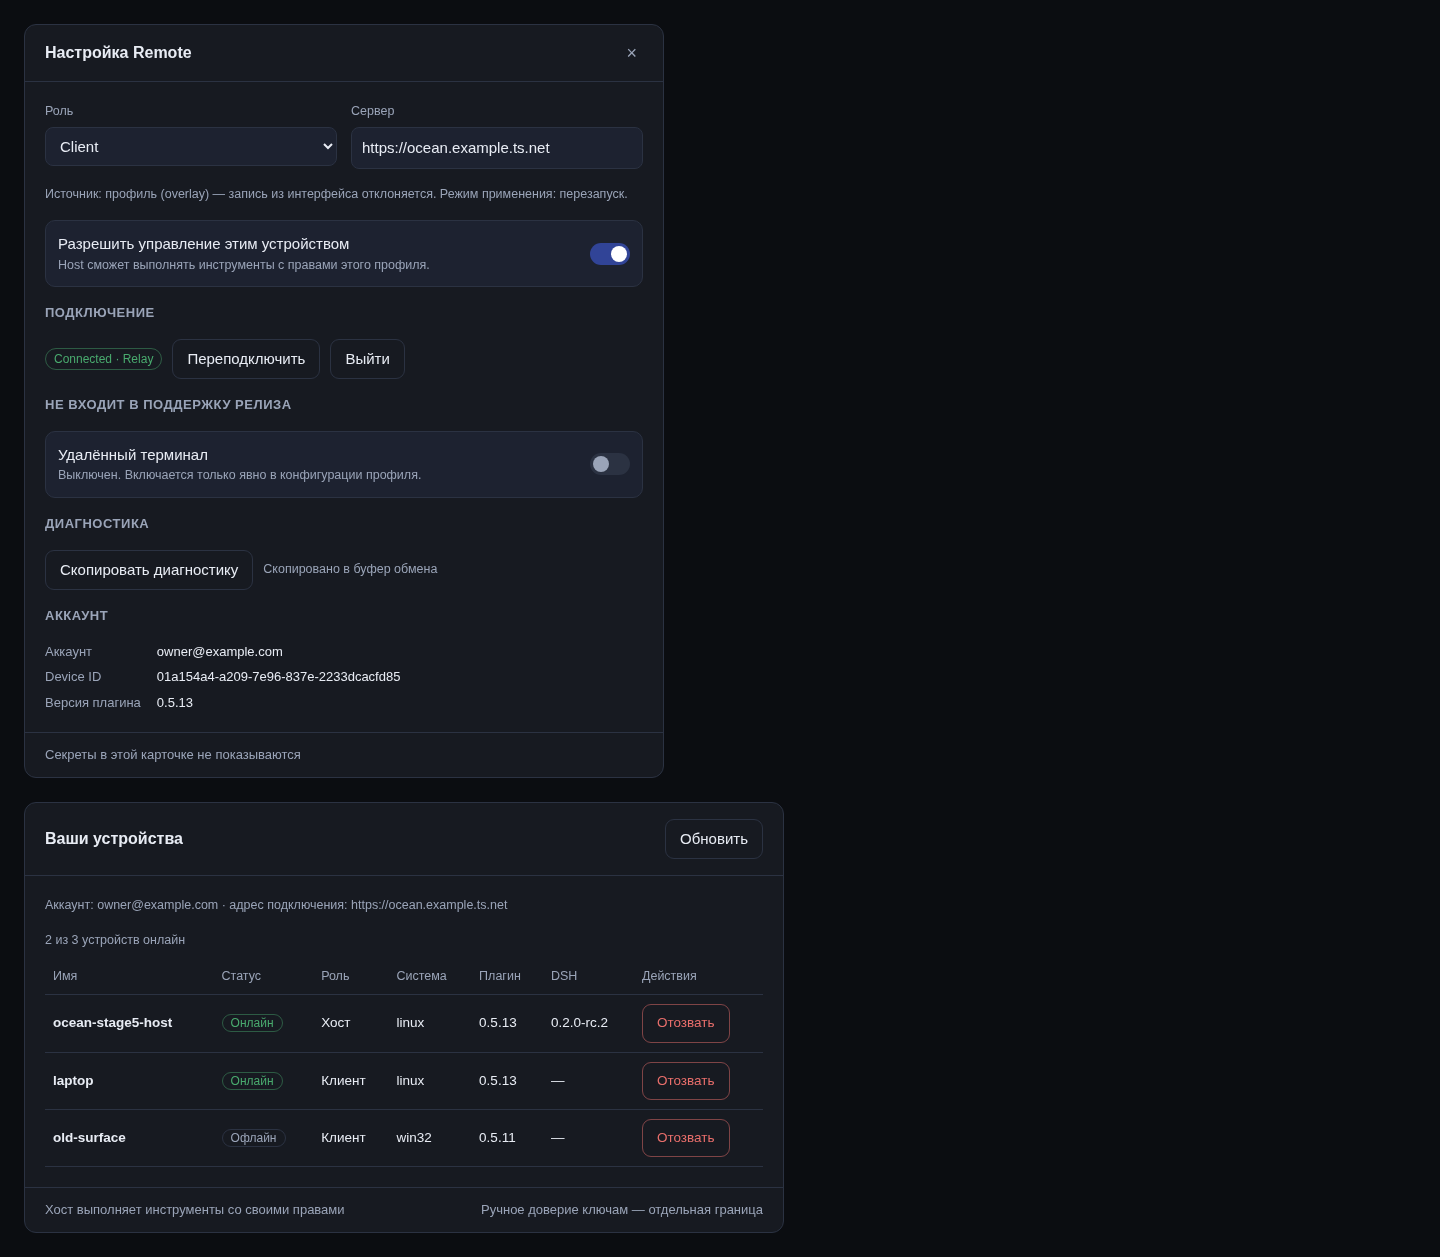
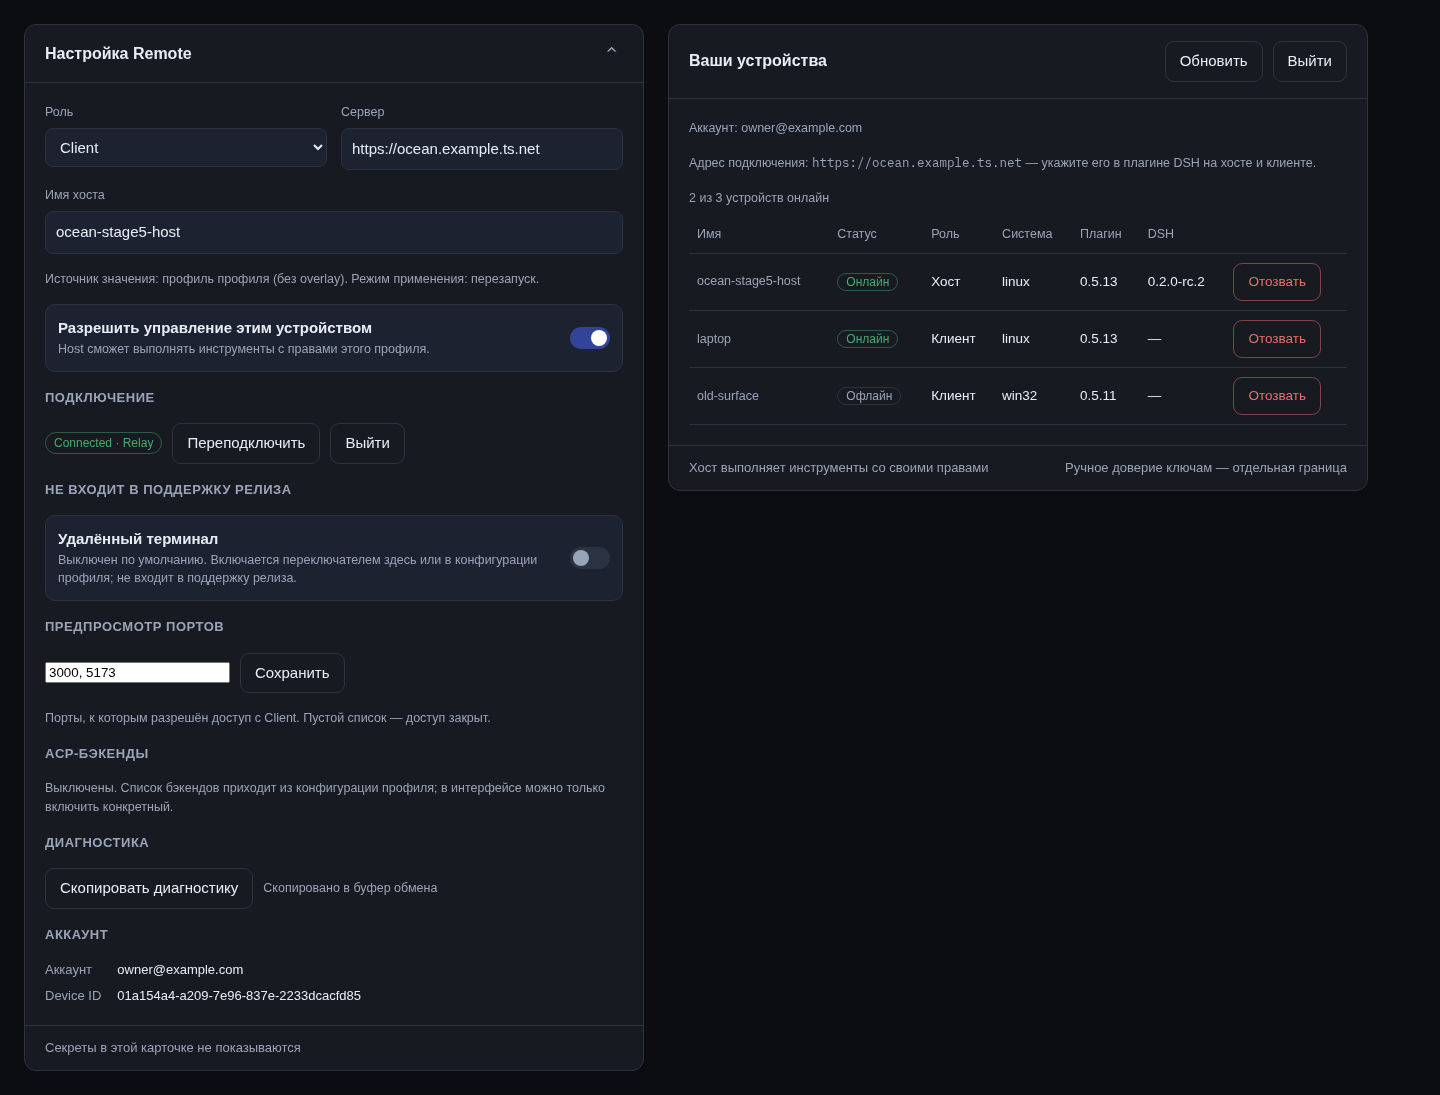
docs: make the settings and ocean mockups accurate

diff --git a/docs/design/fork/mockups/settings-and-ocean.html b/docs/design/fork/mockups/settings-and-ocean.html
@@ -12,13 +12,16 @@
     --radius:12px; --gap:16px;
   }
   *{box-sizing:border-box}
+  .visually-hidden{position:absolute;width:1px;height:1px;overflow:hidden;clip-path:inset(50%);white-space:nowrap}
+  .host__name{font-weight:600}
   body{margin:0;background:var(--bg);color:var(--ink);font:15px/1.5 -apple-system,"Segoe UI",Roboto,sans-serif}
   .stage{display:flex;gap:24px;padding:24px;align-items:flex-start;flex-wrap:wrap}
-  .card{background:var(--surface);border:1px solid var(--border);border-radius:var(--radius);overflow:hidden;width:640px}
-  .card--wide{width:760px}
+  .card{background:var(--surface);border:1px solid var(--border);border-radius:var(--radius);overflow:hidden;width:620px}
+  .card--wide{width:700px}
   .card__head{display:flex;align-items:center;justify-content:space-between;padding:16px 20px;border-bottom:1px solid var(--border);gap:12px}
   .card__title{margin:0;font-weight:600;font-size:16px}
   .card__close{background:transparent;border:0;color:var(--muted);font-size:18px;cursor:pointer;border-radius:6px}
+  .card__close:focus-visible{outline:2px solid var(--accent);outline-offset:2px}
   .card__body{padding:20px;display:flex;flex-direction:column;gap:var(--gap)}
   .section-title{font-size:13px;letter-spacing:.04em;text-transform:uppercase;color:var(--muted);margin:0}
   .field{display:flex;flex-direction:column;gap:6px;margin:0}
@@ -41,6 +44,7 @@
   .notice strong{display:block;color:var(--ink);margin-bottom:2px}
   .meta{display:grid;grid-template-columns:max-content 1fr;gap:6px 16px;font-size:13px;color:var(--muted);margin:0}
   .meta dt{color:var(--muted)} .meta dd{margin:0;color:var(--ink);overflow-wrap:anywhere}
+  .table-scroll{overflow-x:auto;max-width:100%}
   table{width:100%;border-collapse:collapse;font-size:13.5px}
   caption{text-align:left;color:var(--muted);font-size:12.5px;padding-bottom:8px}
   th,td{text-align:left;padding:9px 8px;border-bottom:1px solid var(--border);white-space:nowrap}
@@ -49,15 +53,12 @@
   .pill{font-size:12px;padding:1px 8px;border-radius:999px;border:1px solid var(--border);color:var(--muted)}
   .pill--ok{color:var(--success);border-color:color-mix(in srgb,var(--success) 45%,transparent)}
   .pill--off{color:var(--muted)}
-  .empty{border:1px dashed var(--border);border-radius:10px;padding:18px;text-align:center;color:var(--muted);font-size:13px}
-  .error{border:1px solid color-mix(in srgb,var(--danger) 45%,transparent);border-radius:10px;padding:10px 12px;font-size:13px;color:var(--danger)}
   .footer{display:flex;justify-content:space-between;gap:12px;padding:12px 20px;border-top:1px solid var(--border);font-size:13px;color:var(--muted);flex-wrap:wrap}
   @media (max-width:700px){
     .stage{padding:12px}
     .card,.card--wide{width:100%}
     .card__body{padding:14px;gap:12px}
     .grid2{grid-template-columns:1fr}
-    .table-scroll{overflow-x:auto}
     th,td{white-space:normal}
   }
 </style>
@@ -67,14 +68,15 @@
   <section class="card" aria-labelledby="settings-title">
     <header class="card__head">
       <h2 class="card__title" id="settings-title">Настройка Remote</h2>
-      <button class="card__close" aria-label="Закрыть настройку Remote">×</button>
+      <button class="card__close" aria-expanded="true" aria-label="Свернуть настройку Remote">⌃</button>
     </header>
     <div class="card__body">
       <div class="grid2">
         <p class="field"><label for="role" class="hint">Роль</label><select id="role"><option>Host</option><option selected>Client</option></select></p>
-        <p class="field"><label for="server" class="hint">Сервер</label><input id="server" value="https://ocean.example.ts.net" readonly></p>
+        <p class="field"><label for="server" class="hint">Сервер</label><input id="server" value="https://ocean.example.ts.net"></p>
       </div>
-      <p class="hint">Источник: профиль (overlay) — запись из интерфейса отклоняется. Режим применения: перезапуск.</p>
+      <p class="field"><label for="hostname" class="hint">Имя хоста</label><input id="hostname" value="ocean-stage5-host"></p>
+      <p class="hint">Источник значения: профиль профиля (без overlay). Режим применения: перезапуск.</p>
 
       <div class="switch-row">
         <div>
@@ -93,9 +95,16 @@
 
       <h3 class="section-title">Не входит в поддержку релиза</h3>
       <div class="switch-row">
-        <div><div class="host__name">Удалённый терминал</div><p class="hint">Выключен. Включается только явно в конфигурации профиля.</p></div>
+        <div><div class="host__name">Удалённый терминал</div><p class="hint">Выключен по умолчанию. Включается переключателем здесь или в конфигурации профиля; не входит в поддержку релиза.</p></div>
         <span class="switch" role="switch" aria-checked="false" aria-label="Удалённый терминал"></span>
       </div>
+
+      <h3 class="section-title">Предпросмотр портов</h3>
+      <div class="row"><input id="ports" value="3000, 5173" style="max-width:220px" aria-label="Порты предпросмотра"><button class="btn">Сохранить</button></div>
+      <p class="hint">Порты, к которым разрешён доступ с Client. Пустой список — доступ закрыт.</p>
+
+      <h3 class="section-title">ACP-бэкенды</h3>
+      <p class="hint">Выключены. Список бэкендов приходит из конфигурации профиля; в интерфейсе можно только включить конкретный.</p>
 
       <h3 class="section-title">Диагностика</h3>
       <div class="row">
@@ -107,7 +116,6 @@
       <dl class="meta">
         <dt>Аккаунт</dt><dd>owner@example.com</dd>
         <dt>Device ID</dt><dd>01a154a4-a209-7e96-837e-2233dcacfd85</dd>
-        <dt>Версия плагина</dt><dd>0.5.13</dd>
       </dl>
     </div>
     <footer class="footer"><span>Секреты в этой карточке не показываются</span></footer>
@@ -116,27 +124,28 @@
   <section class="card card--wide" aria-labelledby="ocean-title">
     <header class="card__head">
       <h2 class="card__title" id="ocean-title">Ваши устройства</h2>
-      <button class="btn">Обновить</button>
+      <span class="row"><button class="btn">Обновить</button><button class="btn">Выйти</button></span>
     </header>
     <div class="card__body">
-      <p class="hint">Аккаунт: owner@example.com · адрес подключения: https://ocean.example.ts.net</p>
-      <div class="table-scroll">
+      <p class="hint">Аккаунт: owner@example.com</p>
+      <p class="hint">Адрес подключения: <code>https://ocean.example.ts.net</code> — укажите его в плагине DSH на хосте и клиенте.</p>
+      <div class="table-scroll" tabindex="0" role="region" aria-label="Список устройств">
         <table>
           <caption>2 из 3 устройств онлайн</caption>
-          <thead><tr><th>Имя</th><th>Статус</th><th>Роль</th><th>Система</th><th>Плагин</th><th>DSH</th><th><span class="visually-hidden">Действия</span></th></tr></thead>
+          <thead><tr><th scope="col">Имя</th><th scope="col">Статус</th><th scope="col">Роль</th><th scope="col">Система</th><th scope="col">Плагин</th><th scope="col">DSH</th><th scope="col"><span class="visually-hidden">Действия</span></th></tr></thead>
           <tbody>
             <tr>
-              <td class="name">ocean-stage5-host</td><td><span class="pill pill--ok">Онлайн</span></td><td>Хост</td>
+              <th scope="row" class="name">ocean-stage5-host</td><td><span class="pill pill--ok">Онлайн</span></td><td>Хост</td>
               <td>linux</td><td>0.5.13</td><td>0.2.0-rc.2</td>
               <td><button class="btn btn--danger" aria-label="Отозвать устройство ocean-stage5-host">Отозвать</button></td>
             </tr>
             <tr>
-              <td class="name">laptop</td><td><span class="pill pill--ok">Онлайн</span></td><td>Клиент</td>
+              <th scope="row" class="name">laptop</td><td><span class="pill pill--ok">Онлайн</span></td><td>Клиент</td>
               <td>linux</td><td>0.5.13</td><td>—</td>
               <td><button class="btn btn--danger" aria-label="Отозвать устройство laptop">Отозвать</button></td>
             </tr>
             <tr>
-              <td class="name">old-surface</td><td><span class="pill pill--off">Офлайн</span></td><td>Клиент</td>
+              <th scope="row" class="name">old-surface</td><td><span class="pill pill--off">Офлайн</span></td><td>Клиент</td>
               <td>win32</td><td>0.5.11</td><td>—</td>
               <td><button class="btn btn--danger" aria-label="Отозвать устройство old-surface">Отозвать</button></td>
             </tr>

diff --git a/docs/design/fork/mockups/README.ru.md b/docs/design/fork/mockups/README.ru.md
@@ -12,7 +12,7 @@
 | Узкий экран 360@2x | То же, столбцом | `remote-card-narrow.png` |
 | Настройка Remote, desktop 1440 | Роль, сервер с пометкой источника и режима применения, переключатели, подключение, диагностика, аккаунт | `settings-and-ocean-desktop.png` |
 | Консоль Ocean, desktop 1440 | Список устройств: статусы, роли, версии, «Отозвать» с доступным именем | та же картинка, нижняя карточка |
-| Планшет 768 / узкий 360@2x | Те же две карточки в одну колонку | `settings-and-ocean-tablet.png`, `settings-and-ocean-narrow.png` |
+| Планшет 768 / узкий 360@2x | Те же две карточки: на 768 — столбцом, таблица с горизонтальной прокруткой внутри своей области | `settings-and-ocean-tablet.png`, `settings-and-ocean-narrow.png` |
 
 Исходники разметки: `remote-card.html` и `settings-and-ocean.html` — самодостаточные, без внешних ассетов, шрифтов и сетевых ссылок.
 
@@ -35,7 +35,7 @@
 
 Чтобы макет не смешивал противоречивые состояния, показано по одному состоянию на экран. Остальные описаны в [матрице состояний](../01-screen-map.ru.md):
 
-- настройки: ошибка записи с кодом (`SETTINGS_OVERRIDDEN`), «загружаем», пустой профиль;
+- настройки: ошибка записи (текст `settingsOverridden` из локали, технические детали раскрываются отдельно), «загружаем», пустой профиль;
 - консоль Ocean: пустой список, ошибка загрузки, частичный исход отзыва;
 - ключи: истёкший запрос, столкновение ключа («Key: changed»), успешное подтверждение.
 
